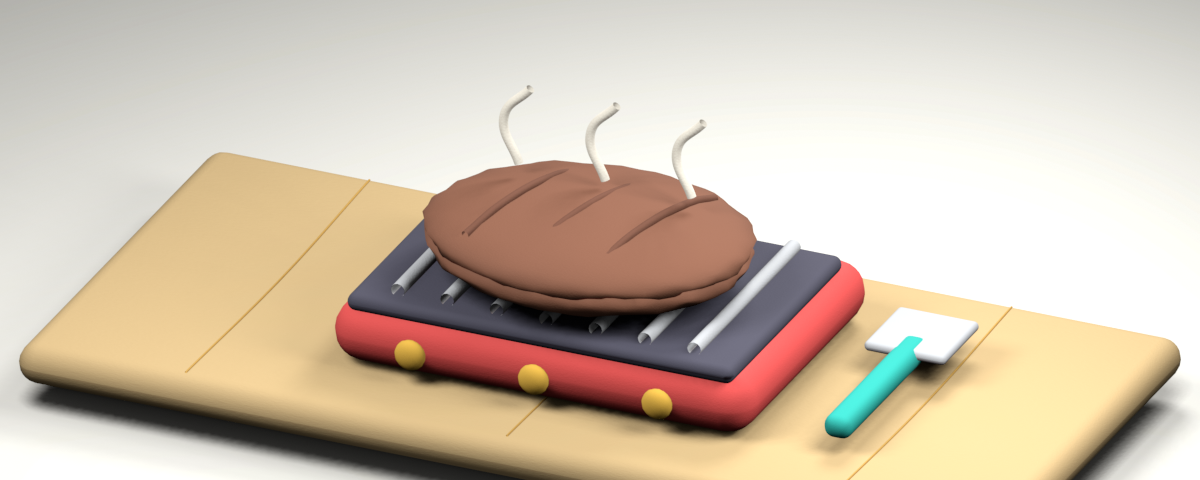
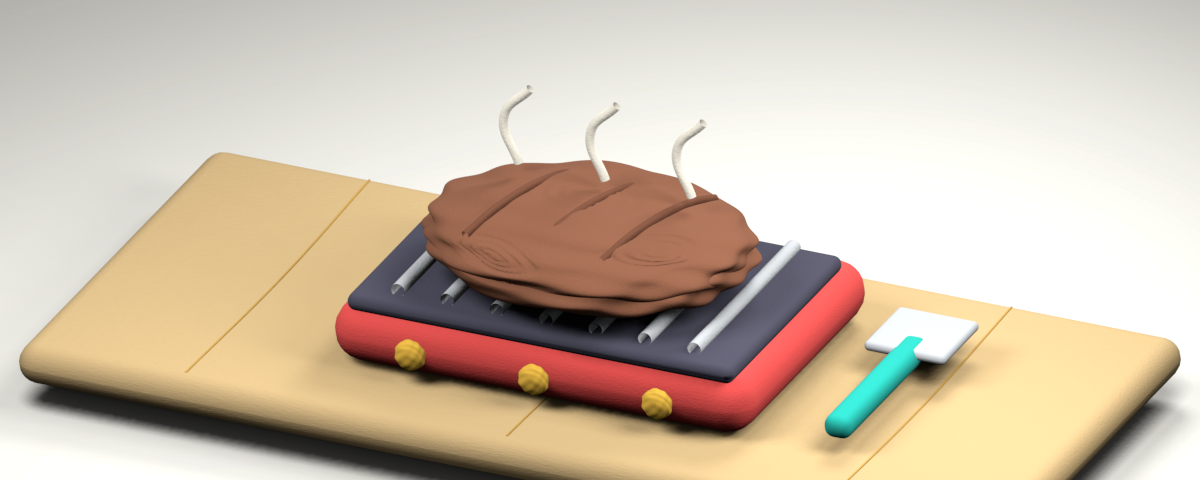
Sculpt visible fingerprints and matte hand-pressed clay surfaces

diff --git a/video-pipeline/pilot/burger/clay/sculpt.py b/video-pipeline/pilot/burger/clay/sculpt.py
@@ -1,6 +1,6 @@
 """Rebuild the original clay miniature assets. Blender 3.x, Eevee.
 
-blender -b -t 4 --python sculpt.py -- [output-directory] [optional scene filter]
+blender -b -t 4 --python sculpt.py -- [output-directory] [scene filter] [pose]
 No reference image is copied into the artwork. All meshes/materials are procedural.
 """
 import bpy, math, os, sys
@@ -9,6 +9,7 @@ from mathutils import Vector
 args = sys.argv[sys.argv.index('--') + 1:] if '--' in sys.argv else []
 OUT = args[0] if args else os.path.join(os.path.dirname(__file__), 'assets')
 FILTER = args[1] if len(args) > 1 else ''
+POSE = int(args[2]) if len(args) > 2 else None
 os.makedirs(OUT, exist_ok=True)
 
 def rgb(hexcode):
@@ -17,15 +18,15 @@ def rgb(hexcode):
     values = [int(h[i:i+2], 16)/255 for i in (0, 2, 4)]
     return tuple(v/12.92 if v <= .04045 else ((v+.055)/1.055)**2.4 for v in values)
 
-def material(name, color, rough=.78):
+def material(name, color, rough=.94):
     mat = bpy.data.materials.new(name); mat.use_nodes = True
     nodes = mat.node_tree.nodes; links = mat.node_tree.links
     bs = nodes.get('Principled BSDF'); bs.inputs['Base Color'].default_value = (*rgb(color), 1)
-    bs.inputs['Roughness'].default_value = rough; bs.inputs['Specular'].default_value = .24
-    bs.inputs['Subsurface'].default_value = .025
-    noise = nodes.new('ShaderNodeTexNoise'); noise.inputs['Scale'].default_value = 170
-    noise.inputs['Detail'].default_value = 2.2; noise.inputs['Roughness'].default_value = .7
-    bump = nodes.new('ShaderNodeBump'); bump.inputs['Strength'].default_value = .16; bump.inputs['Distance'].default_value = .021
+    bs.inputs['Roughness'].default_value = rough; bs.inputs['Specular'].default_value = .12
+    bs.inputs['Subsurface'].default_value = .015
+    noise = nodes.new('ShaderNodeTexNoise'); noise.inputs['Scale'].default_value = 105
+    noise.inputs['Detail'].default_value = 3; noise.inputs['Roughness'].default_value = .7
+    bump = nodes.new('ShaderNodeBump'); bump.inputs['Strength'].default_value = .24; bump.inputs['Distance'].default_value = .025
     links.new(noise.outputs['Fac'], bump.inputs['Height']); links.new(bump.outputs['Normal'], bs.inputs['Normal'])
     return mat
 
@@ -36,22 +37,38 @@ def finish(obj, mat):
     return obj
 
 def ball(name, pos, scale, mat, seed=1, dents=False):
-    bpy.ops.mesh.primitive_uv_sphere_add(segments=56, ring_count=32, location=pos)
+    # Hero pieces carry real pressed fingerprint grooves, not painted marks.
+    bpy.ops.mesh.primitive_uv_sphere_add(segments=192 if dents else 56, ring_count=112 if dents else 32, location=pos)
     obj = bpy.context.object; obj.name = name
+    patches = []
+    if dents:
+        for center in [(-.35,-.84,.42), (.58,-.42,.70), (-.05,.14,.99)]:
+            normal = Vector(center).normalized()
+            tangent = normal.cross(Vector((0,0,1))).normalized()
+            patches.append((normal, tangent, normal.cross(tangent)))
     for v in obj.data.vertices:
         n = v.co.normalized(); x,y,z = n
-        irregular = 1 + .017*math.sin(x*13+y*7+seed) * math.cos(z*11-x*5) + .009*math.sin(y*23+z*8)
+        irregular = 1 + .040*math.sin(x*6+y*4+seed)*math.cos(z*7-x*3) + .019*math.sin(y*15+z*8+seed)
         if dents:
-            for target in [Vector((-.4,-.75,.55)).normalized(), Vector((.12,-.85,.52)).normalized(), Vector((.58,-.5,.64)).normalized()]:
-                irregular -= .07*math.exp(-(1-n.dot(target))/.014)
+            for normal, tangent, bitangent in patches:
+                if n.dot(normal) < .85: continue
+                u, w = n.dot(tangent), n.dot(bitangent)
+                radius = math.sqrt((u/.40)**2 + (w/.32)**2)
+                if radius < 1:
+                    mask = min(1, (1-radius)*4)
+                    # Concentric, slightly asymmetric fingertip ridges pressed into dough.
+                    whorl = radius + .045*math.sin(math.atan2(w,u)*2)
+                    groove = .5 + .5*math.cos(whorl*math.tau*4)
+                    irregular -= mask*(.018 + .032*groove)
         v.co *= irregular
+    # Refresh normals after sculpting; otherwise grooves keep smooth-sphere shading.
+    obj.data.update()
     obj.scale = scale; return finish(obj, mat)
 
 def block(name, pos, scale, mat, bevel=.15):
     bpy.ops.mesh.primitive_cube_add(size=1, location=pos); obj=bpy.context.object; obj.name=name
     obj.dimensions = scale; bpy.ops.object.transform_apply(location=False, rotation=False, scale=True)
     mod=obj.modifiers.new('Soft hand-shaped corners', 'BEVEL'); mod.width=bevel; mod.segments=5
-    obj.modifiers.new('Weighted surface normals', 'WEIGHTED_NORMAL')
     return finish(obj, mat)
 
 def rope(name, points, radius, mat):
@@ -205,6 +222,7 @@ def grill(M,pose):
 for label,build in [('bun-mix',mixing),('bun-proof',proof),('bun-bake',oven),('patty-mince',mince),('patty-shape',shaping),('patty-grill',grill)]:
     if FILTER and FILTER not in label: continue
     for pose in range(4):
+        if POSE is not None and pose != POSE: continue
         M=setup(); build(M,pose)
         scene=bpy.context.scene; scene.render.filepath=os.path.join(OUT,f'{label}-{pose}.png')
         bpy.ops.render.render(write_still=True)

diff --git a/video-pipeline/pilot/burger/clay/README.md b/video-pipeline/pilot/burger/clay/README.md
@@ -11,6 +11,9 @@ workbench sets: code-sculpted, imperfect clay meshes, pressed marks, rolled
 seams, soft studio lighting and real contact shadows. Four posed renders per
 step are held on a 12-exposure-per-second stop-motion clock. The scene clock
 and export cadence remain 30fps. Texture never flickers randomly.
+Fingerprint whorls are physically pressed into the mesh; broader unevenness
+breaks up the silhouette, while a fine surface bump and high roughness keep
+the dough matte rather than smooth plastic.
 
 Visual reference: [The Play-Doh Show — BBQ Burger Bash](https://www.toongoggles.com/shows/play-doh-show/season/1/episode/22).
 The reference informed the tabletop staging, matte physical material and
@@ -53,3 +56,6 @@ DISPLAY=:0 blender -b -t 6 --python video-pipeline/pilot/burger/clay/sculpt.py
 Run from the repository root. Blender 3.0.1 / Eevee was used for the study.
 This requires a working OpenGL display for Eevee; it is an authoring command,
 not a runtime dependency or a mandatory CI step.
+
+For a quick material check, append an output directory, scene-name filter and
+pose number after `--`, e.g. `-- /tmp/clay-check bun-bake 0`.
